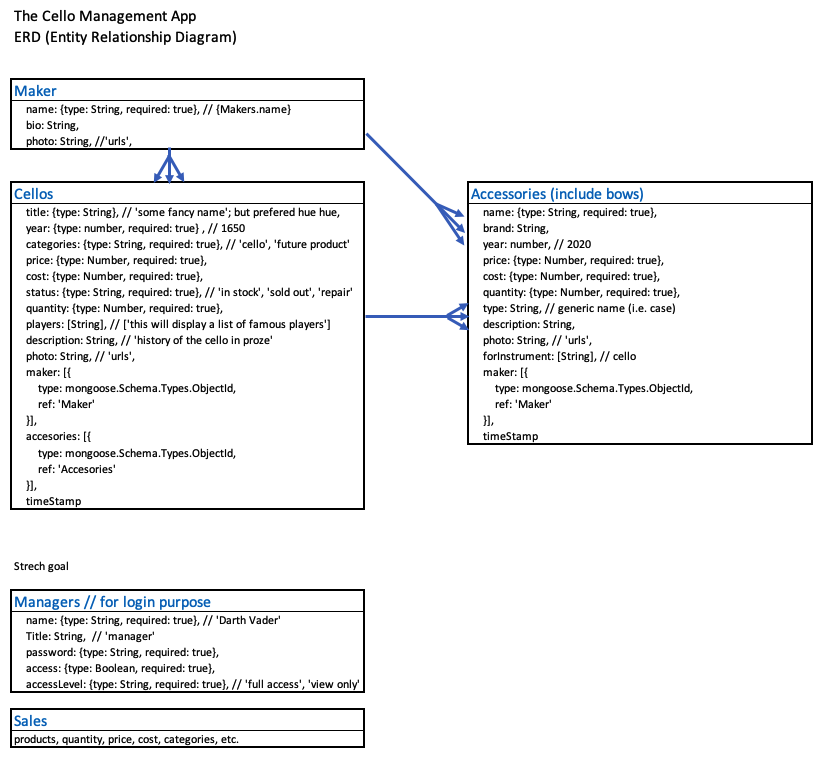
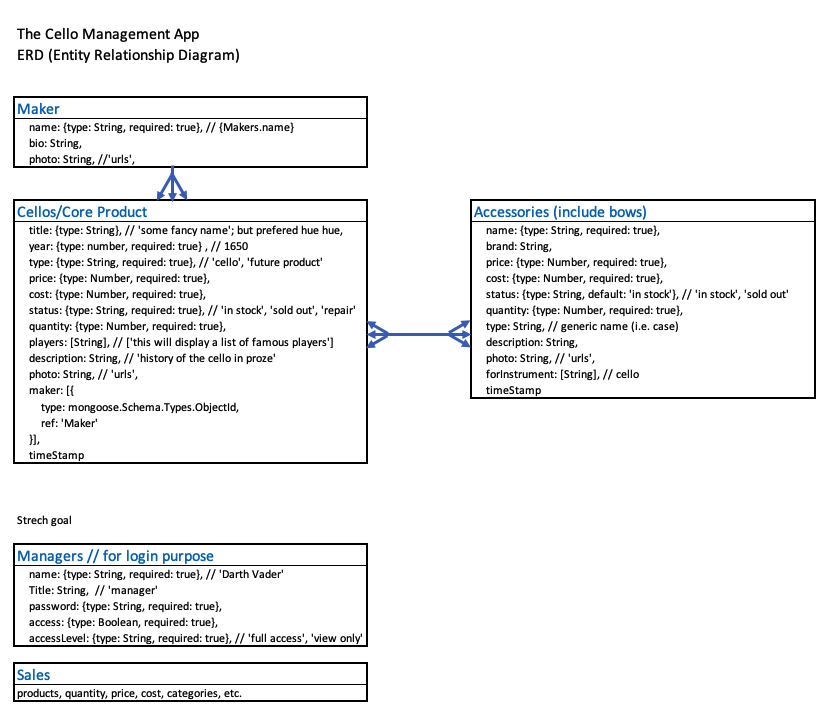
updated stat fields in README and ERD, server.js in progress; need data first

Changed region(s): [[0.0, 0.0, 0.9928, 0.6798], [0.0, 0.7107, 0.4513, 0.9888], [0.4813, 0.2163, 0.5114, 0.2472]]

diff --git a/server.js b/server.js
@@ -1,1 +1,58 @@
 const express = require('express');
+const methodOverride = require('method-override')
+const db = require('./models')
+
+const app = express();
+const PORT = process.env.PORT || 4000;
+
+// Controllers
+const prodController = require('./controllers/prodController')
+
+app.set('view engine', 'ejs');
+
+// ******------------ Middleware -----------******* //
+app.use(express.static(__dirname + '/public'))
+app.use(express.urlencoded({extended: false}))
+app.use(methodOverride('_method'));
+app.use('/');
+
+
+// ******------------ GET Route -----------******* /
+// home/dashboard page
+app.get('/', (req, res) => {
+    res.redirect('/dashboard');
+})
+
+app.get('/dashboard', (req, res) => {
+    let totalQtyForProd = 0, totalPriceForProd = 0, totalCostForProd = 0;
+    let productTypes = []
+    db.products.find((err, coreProducts) => {
+        if (err) console.log(err)
+        // calculate summarized stats 
+        coreProducts.forEach(product => {
+            if (product.status !== 'sold out') {
+                totalQtyForProd += product.quantity
+                totalPriceForProd += product.price
+                totalCostForProd += product.cost
+            }
+        });
+        const celloObj = {
+            name: 'Cellos',
+            quantity: totalQtyForProd,
+            avgPrice: totalPriceForProd / totalQtyForProd,
+            avgCost: totalCostForProd / totalQtyForProd,
+            avgMargin: this.avgPrice - this.avgCost,
+        }
+        productTypes.push(celloObj)
+        // TODO - get accs data
+    })
+    res.rednder('dashboard', {
+
+    })
+})
+
+
+// ******------------ Server listening -----------******* //
+app.listen(PORT, () => {
+    console.log(`Cello Server started on port ` + PORT);
+});

diff --git a/controllers/prodController.js b/controllers/prodController.js
@@ -1,0 +1,6 @@
+const express = require('express');
+const router = express.Router()
+
+
+
+module.exports = router

diff --git a/README.md b/README.md
@@ -47,13 +47,19 @@ Enhancements
 * Shop events
 * employess details (names, salaries, strat date, etc)
 
-Technology: Express, MongoDB, Mongoose, Javascript, HTML, CSS
+Technology
+
+* Express, MongoDB, Mongoose, Javascript, HTML, CSS
 
 Wireframes
 
+Dashboard... 
 ![Dashboard page](./project-asset/dashboard.png)
+Product Index page...
 ![Product index page](./project-asset/index-pages.png)
+Prodcut Show page...
 ![Product show page](./project-asset/show.png)
+Add/edit...
 ![Product add/edit page](./project-asset/add-edit.png)
 
 future enhancement - loging page
@@ -67,7 +73,7 @@ Databases
 cellos = ({
 * title: {type: String}, // 'some fancy name'; but prefered hue hue,
 * year: {type: Number, required: true}, // 1650
-* categories: {type: String, required: true}, // 'cello', 'future product'
+* type: {type: String, required: true}, // 'cello', 'future product'
 * price: {type: Number, required: true},
 * cost: {type: Number, required: true},
 * status: {type: String, required: true}, // 'in stock', 'sold out', 'repair'
@@ -79,32 +85,20 @@ cellos = ({
 *   type: mongoose.Schema.Types.ObjectId,
 *   ref: 'Maker'
 * }],
-* accesories: [{
-*   type: mongoose.Schema.Types.ObjectId,
-*   ref: 'Accesories'
-* }],
 * timeStamp
 })
 
 accesories = ({
 * name: {type: String, required: true}, // {Makers.name}
 * brand: String,
-* year: number, // 2020
 * price: {type: Number, required: true},
 * cost: {type: Number, required: true},
+* status: {type: String, default: 'in stock'}, // 'in stock', 'sold out'
 * quantity: {type: Number, required: true},
 * type: String, // generic name (i.e. bows, case, etc.)
 * description: String,
 * photo: String, // 'urls', 
 * forInstrument: [String], // 'cello'
-* maker: [{
-*   type: mongoose.Schema.Types.ObjectId,
-*   ref: 'Maker'
-* }],
-* accesories: [{
-*   type: mongoose.Schema.Types.ObjectId,
-*   ref: 'Accesories'
-* }],
 * timeStamp
 })
 
